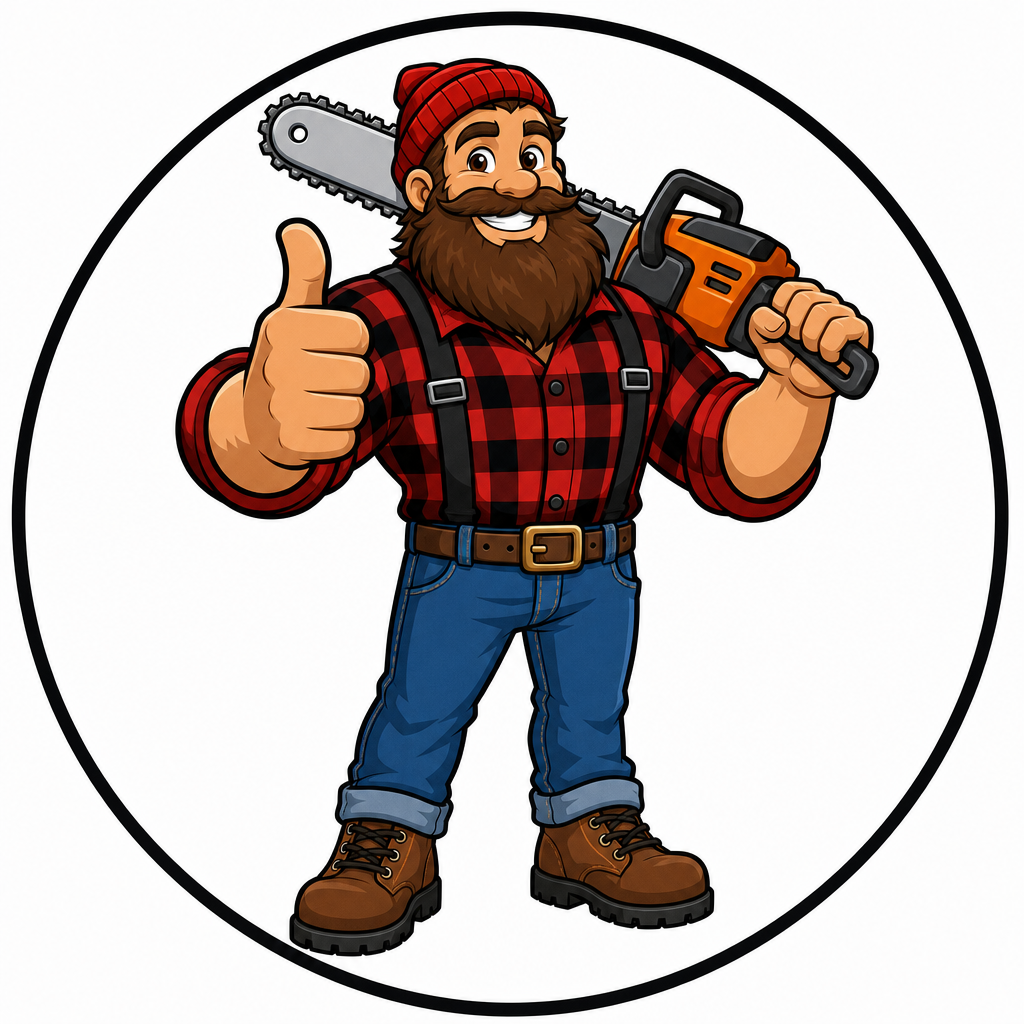
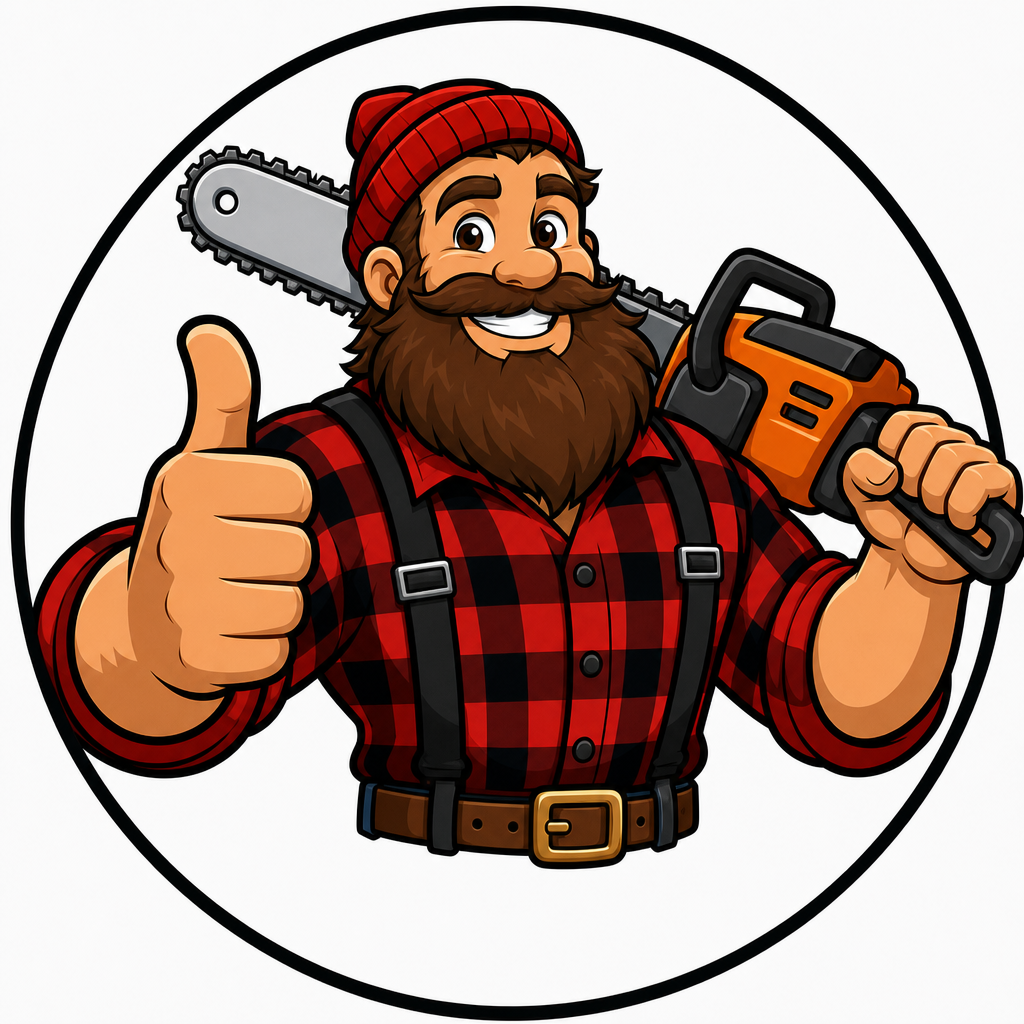
brand: enlarge waist-up lumberjack mascot

diff --git a/index.html b/index.html
@@ -264,8 +264,8 @@
     gap: 8px;
   }
   .hero-mascot-img {
-    width: 160px;
-    height: 160px;
+    width: 320px;
+    height: 320px;
     border-radius: 50%;
     object-fit: cover;
     border: 3px solid var(--orange);
@@ -840,7 +840,7 @@
     .hero .container { flex-direction: column; text-align: center; gap: 20px; }
     .hero p { margin-left: auto; margin-right: auto; }
     .hero-cta-row { justify-content: center; }
-    .hero-mascot-img { width: 120px; height: 120px; }
+    .hero-mascot-img { width: 240px; height: 240px; }
     .hero h1 { font-size: 1.5rem; }
     .header-cta { display: none; }
     .mobile-sticky { display: block; }
@@ -889,7 +889,7 @@
       </div>
     </div>
     <div class="hero-mascot">
-      <img src="mascot.png" alt="Woody, our tree felling mascot" class="hero-mascot-img" width="160" height="160">
+      <img src="mascot.png" alt="Woody, our tree felling mascot" class="hero-mascot-img" width="320" height="320">
       <div class="hero-mascot-badge">Ask for Woody</div>
     </div>
   </div>